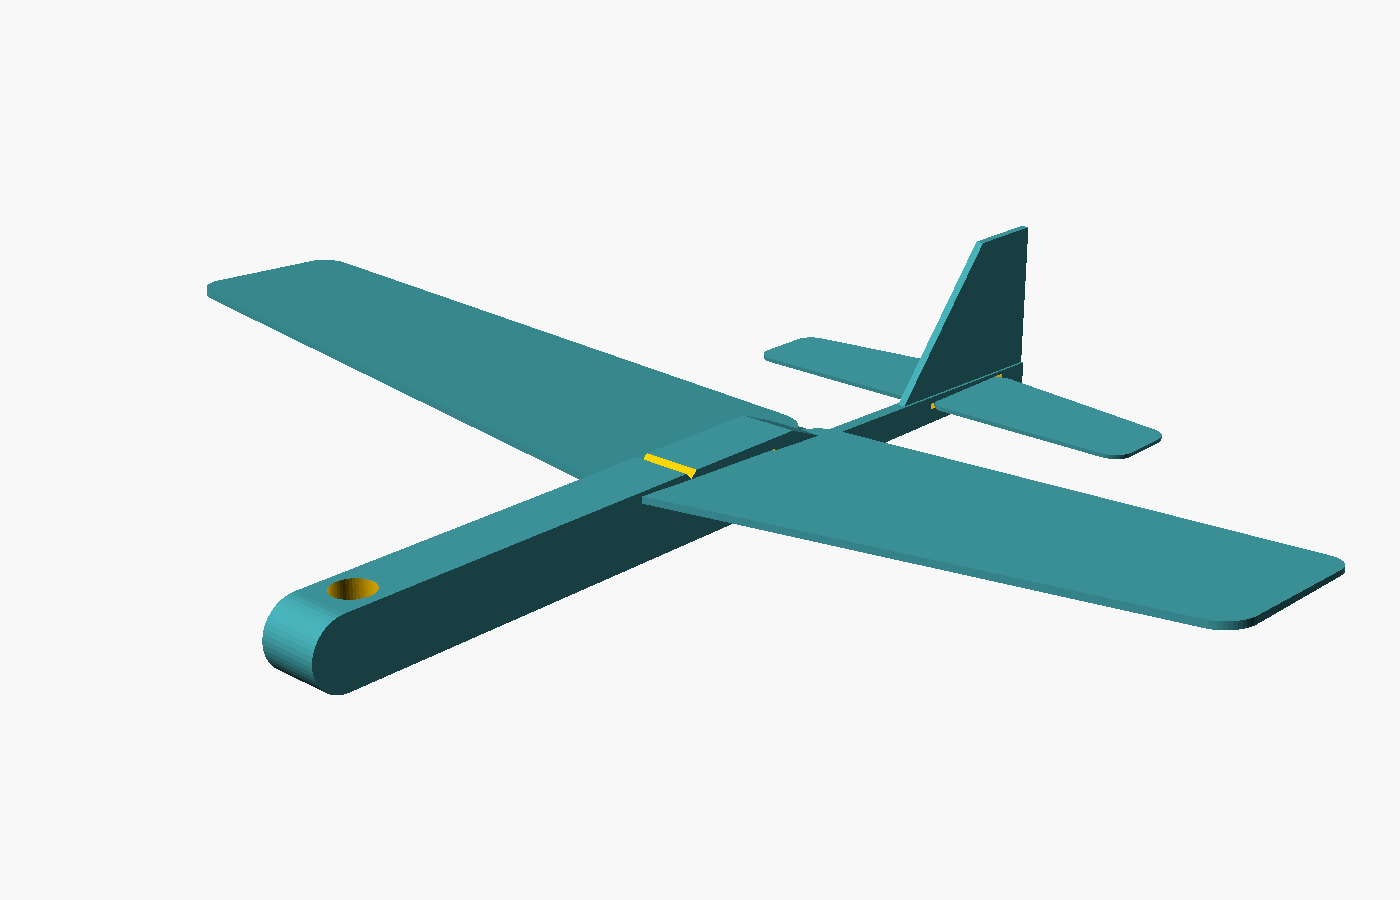
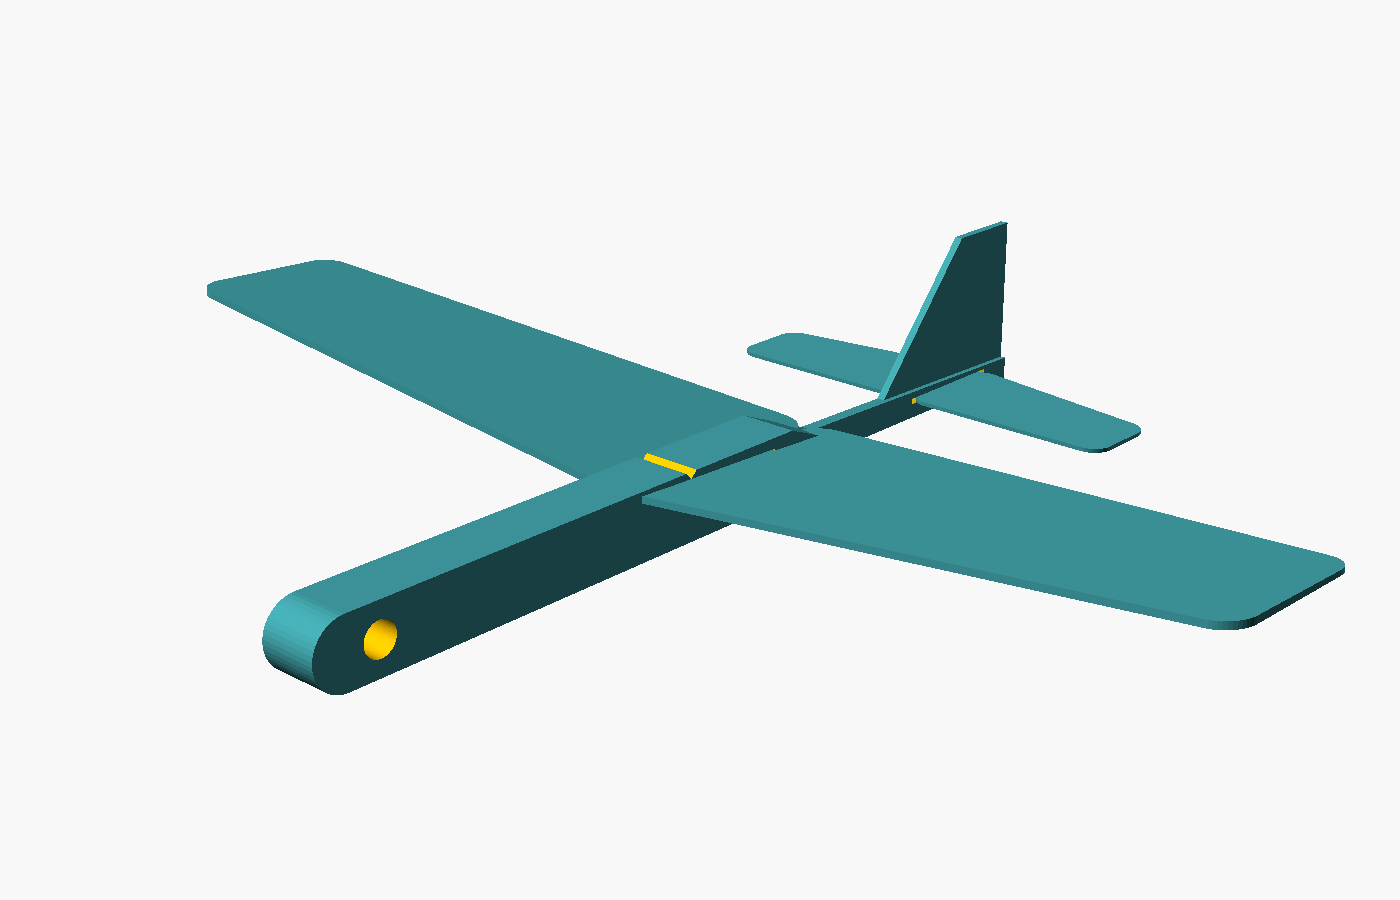
Glider: print fuselage on its side so slots come out to size
Boom and fin flush with the bed-side face, ballast pocket from the top
face, slot clearance 0.25 mm.

diff --git a/docs/glider.md b/docs/glider.md
@@ -29,11 +29,16 @@ Four parts, push-fit, no glue needed (a dot of CA on the tabs is optional):
 ## Print settings (P2S)
 
 - Import `glider_plate.stl`. Bambu Studio will ask to split it into objects; say yes.
-- **Fuselage prints standing up**, as laid out. Wings and tail print flat.
+- **Fuselage prints lying on its side**, as laid out (fin flat on the plate).
+  This keeps both slot widths in-plane, where the printer is accurate. An
+  earlier upright version bridged the slots and they closed up. The boom and
+  fin are flush with the bed-side face, so the tail sits ~3.5 mm to one side
+  of the wing centre line. That's intentional and harmless.
 - 0.2 mm layers, **100% infill** (the CG was computed for solid PLA; sparse
   infill in the pod makes it tail-heavy). Total print is small anyway.
 - 2 walls. Brim optional for the fuselage; the pod's footprint is fine on PEI.
-- The wing and tail slots are bridged; the printer handles the 2–4 mm spans.
+- Slots have 0.25 mm clearance over the tab/plate. If one is still tight,
+  a couple of passes with a craft knife or a needle file opens it up.
 - PLA. Avoid heavy, brittle "silk" PLA for the wings.
 
 ## Trimming
